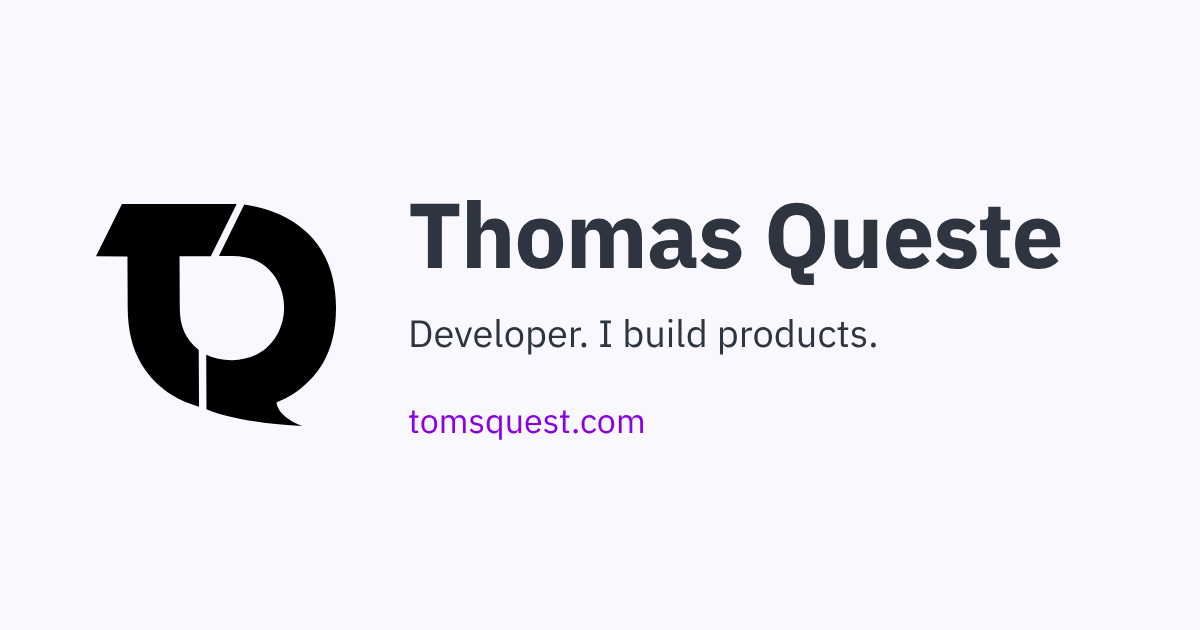
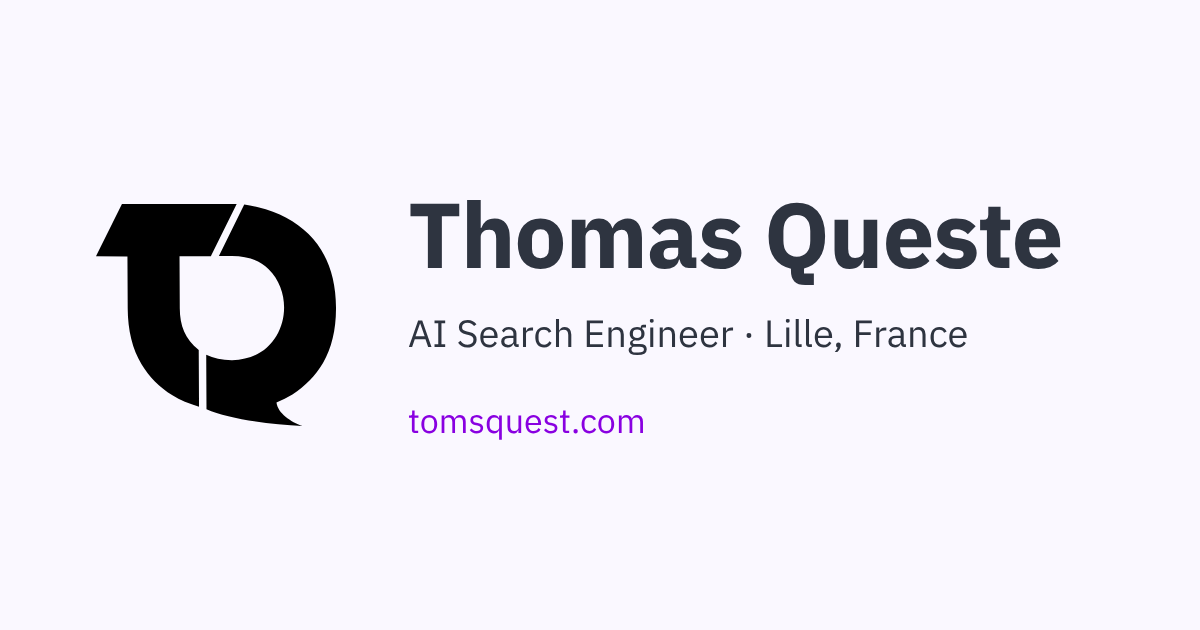
about: AI Search Engineer in Lille, drop Keybase and Twitter
Visible About text, descriptions, Person JSON-LD (jobTitle, address,
knowsAbout) and the default social image now say AI Search Engineer,
Lille. Keybase and Twitter are removed from sameAs and the twitter:*
site/creator tags.

Claude-Session: https://claude.ai/code/session_01J9bccb1exuPrrJBsTY5MjF

Changed region(s): [[0.3392, 0.5127, 0.8017, 0.573]]

diff --git a/pages/about.html b/pages/about.html
@@ -3,17 +3,17 @@ layout: page
 permalink: /about/
 title: About
 h1: Thomas Queste
-description: Thomas Queste, software developer who builds products. Running my own company since 2013, founder of three startups.
+description: Thomas Queste, AI Search Engineer in Lille, France. Running my own company since 2013, founder of three startups.
 # Replaces jekyll-seo-tag's JSON-LD with a ProfilePage + Person
 json_ld: json-ld-profile.html
-last_modified_at: 2024-06-05
+last_modified_at: 2026-10-14
 class: about
 ---
 
 <img class="profile" alt="Thomas Queste" src="{{ site.author.picture }}"/>
 
 <h2>Who am I?</h2>
-<p>I'm a <strong>developer</strong>, and I build <strong>products</strong>.</p>
+<p>I'm an <strong>AI Search Engineer</strong> based in Lille, France, and I build <strong>products</strong>.</p>
 <p>Since pre-2000, I've been turning lines of code into rewarding creations,
   awkward bugs, and unexpected dance parties when the code finally works!</p>
 

diff --git a/_includes/json-ld-profile.html b/_includes/json-ld-profile.html
@@ -10,9 +10,14 @@
     "name": {{ site.author.name | jsonify }},
     "url": {{ page.url | absolute_url | jsonify }},
     "image": {{ site.author.picture | absolute_url | jsonify }},
-    "jobTitle": "Software developer",
+    "jobTitle": "AI Search Engineer",
+    "address": {
+      "@type": "PostalAddress",
+      "addressLocality": "Lille",
+      "addressCountry": "FR"
+    },
     "description": {{ page.description | jsonify }},
-    "knowsAbout": ["Java", "Elasticsearch", "MongoDB", "Machine Learning"],
+    "knowsAbout": ["Search engines", "Elasticsearch", "Learning to Rank", "Machine Learning", "Java", "MongoDB"],
     "sameAs": {{ site.social.links | jsonify }}
   }
 }

diff --git a/pages/home.html b/pages/home.html
@@ -2,7 +2,7 @@
 layout: page
 permalink: /
 title: Thomas Queste
-description: Thomas Queste, software developer who builds products. Blog posts on Elasticsearch, TypeScript, backups and LLMs, side projects and my bookshelf.
+description: Thomas Queste, AI Search Engineer in Lille, France. Blog posts on search, Elasticsearch, LLMs, TypeScript and backups, side projects and my bookshelf.
 h1: 👋 Hey, I'm Thomas Queste.
 class: home
 ---
